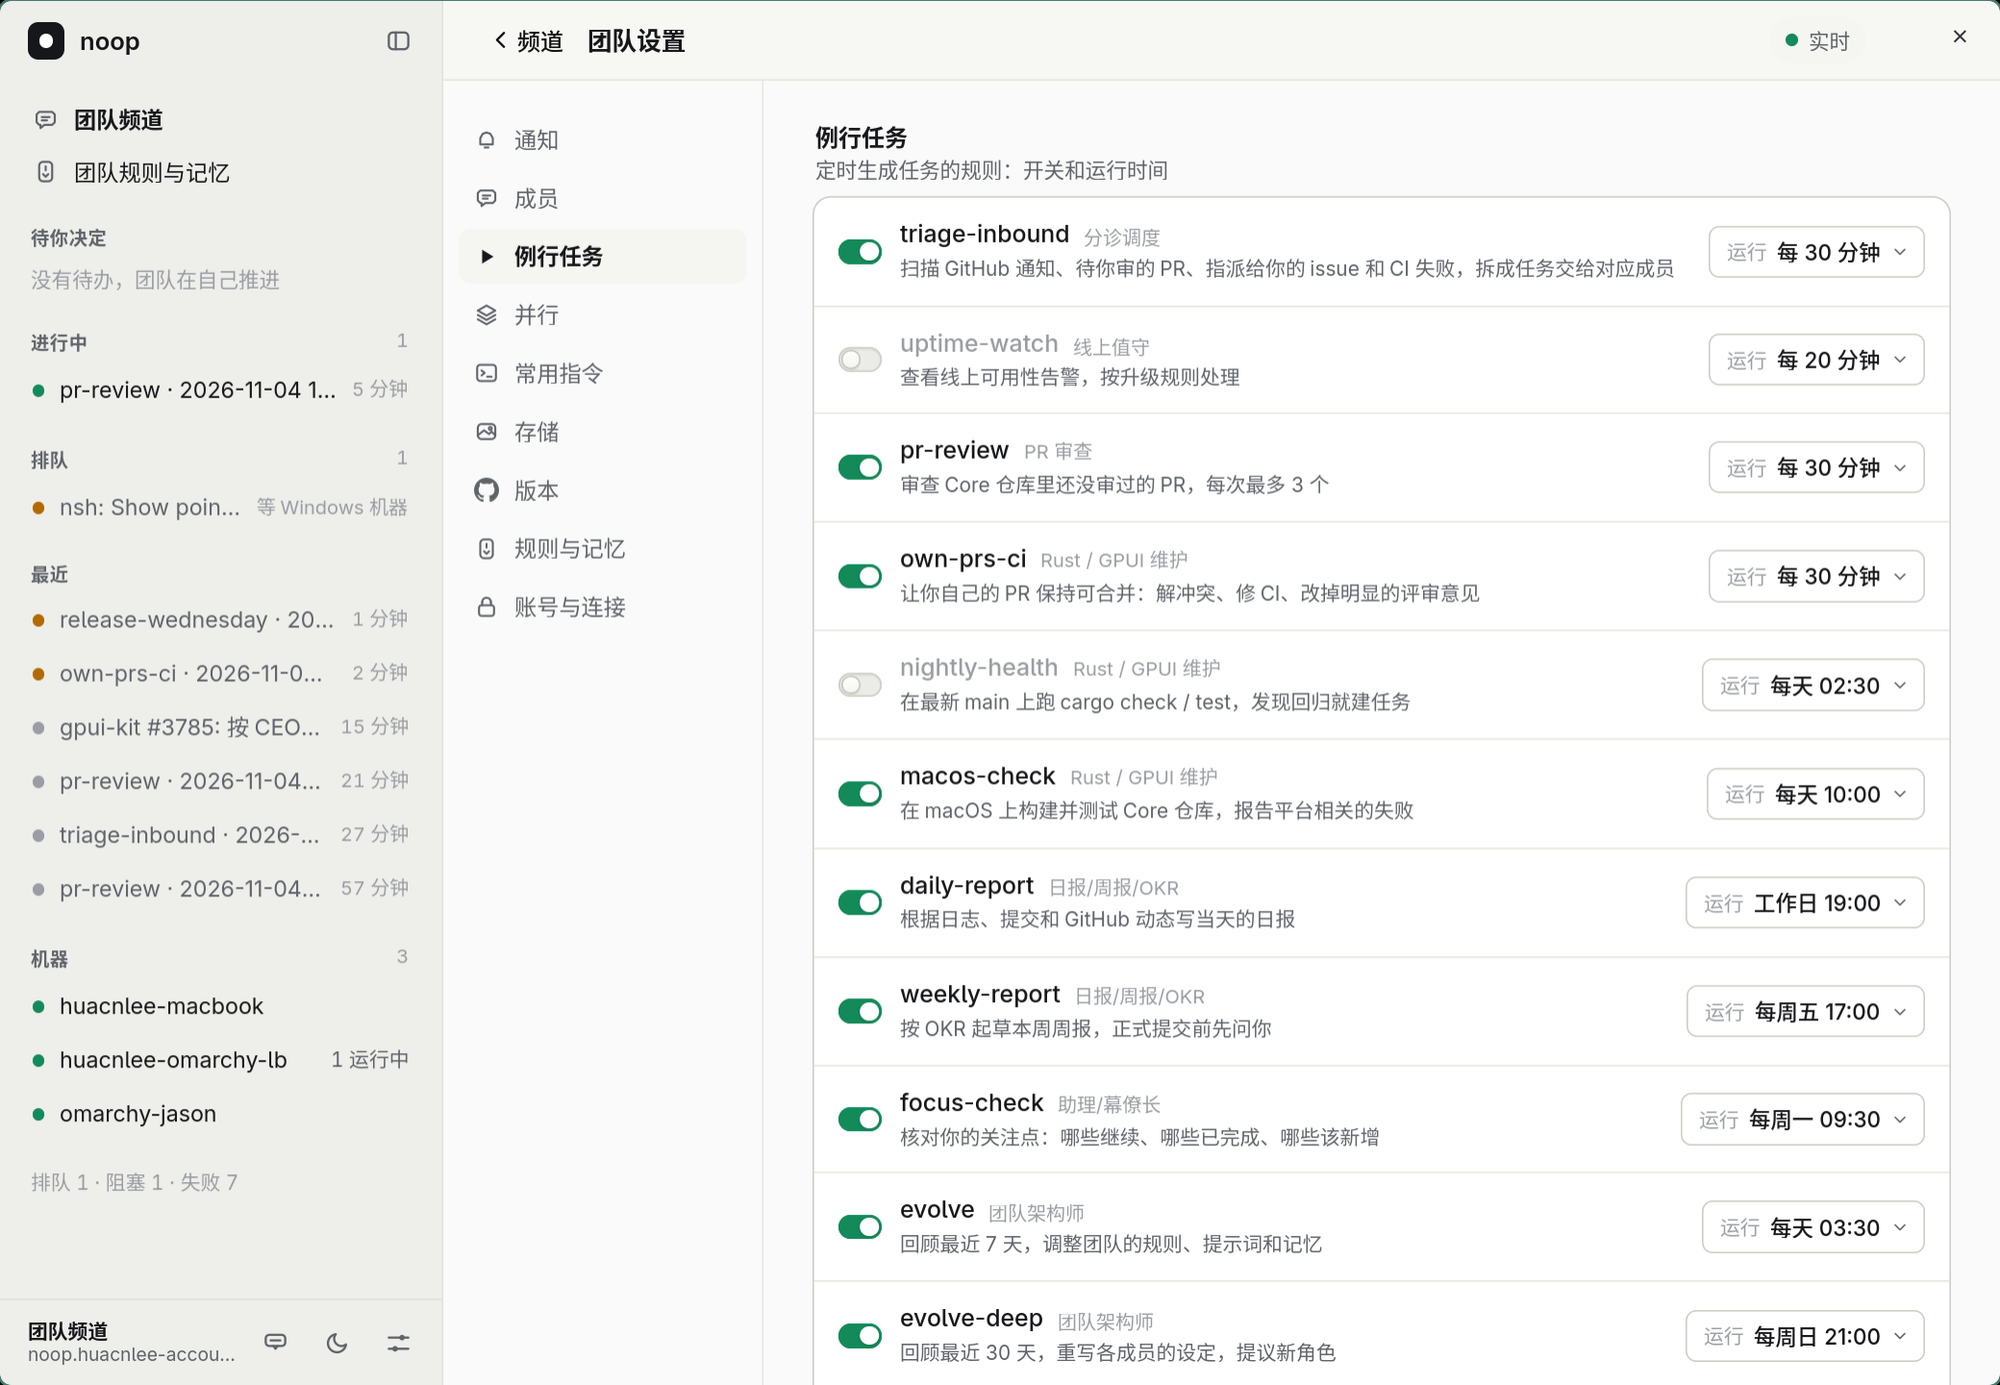
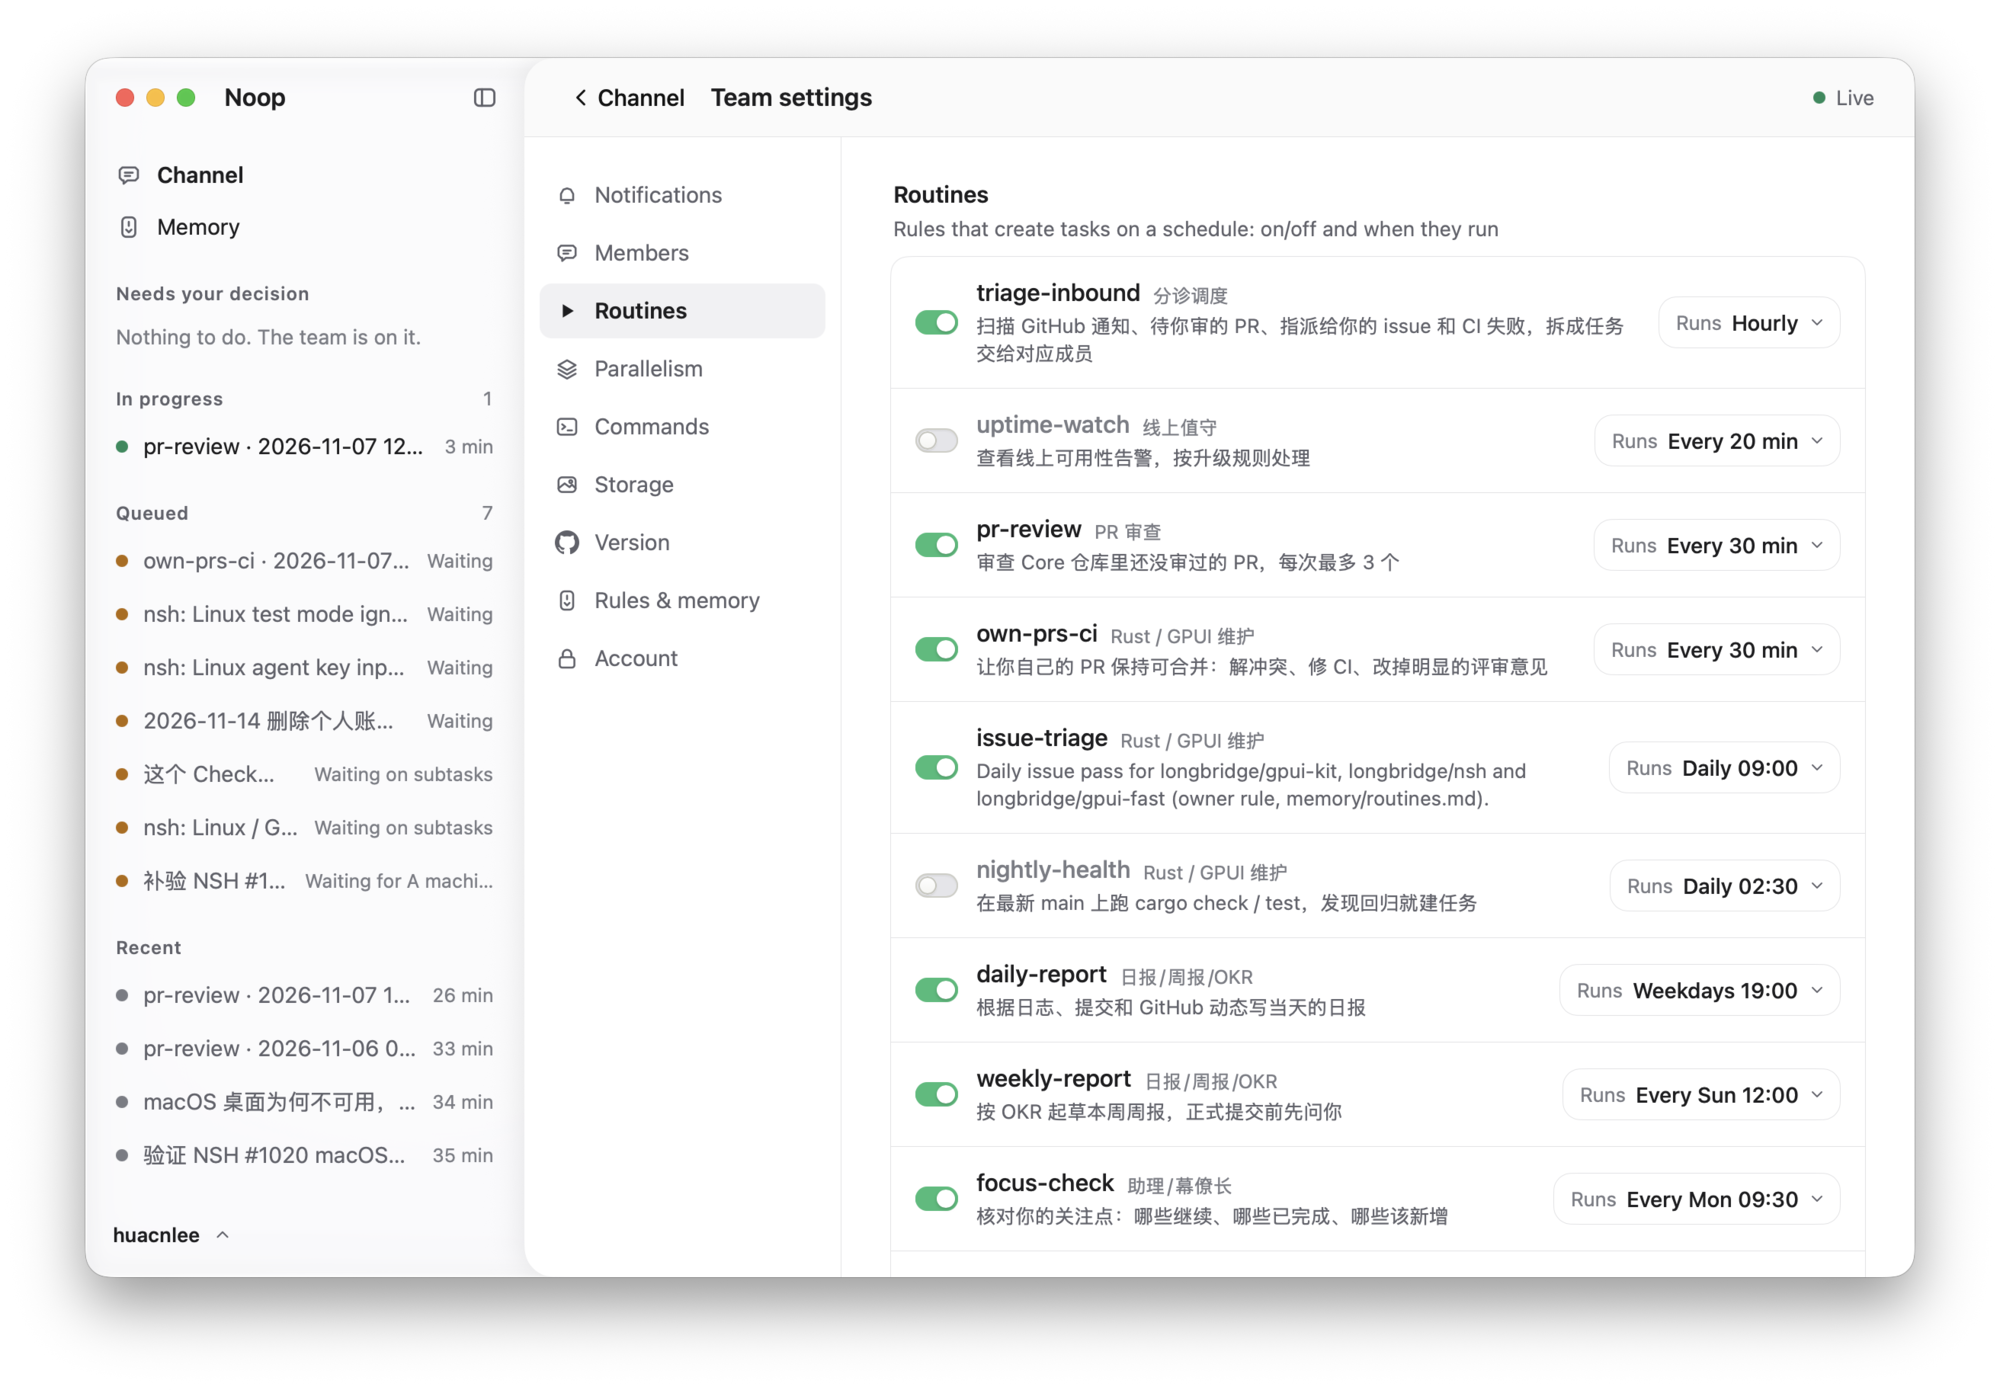
website: Show the current app in the screenshots, on a white light theme
Six new screenshots: the channel, a task, members, memory, routines and versions.
They stay truecolor so the window shadow has no banding, and a last gallery row
of two sits in the middle. The light theme drops its warm tint for white.

diff --git a/website/src/lib/copy.ts b/website/src/lib/copy.ts
@@ -12,11 +12,13 @@ export const copy = {
       body: 'Tests pass and the notes are written. One small fix is still in review.',
       options: [['A', 'Publish now, ship the fix next time', 'Recommended'], ['B', 'Wait for the fix, then publish', ''], ['C', 'Hold the release', '']],
     },
-    screenshot: 'The Noop app: a team channel with agent updates and a decision card offering options, beside lists of running tasks and machines',
+    screenshot: 'The Noop app: the team channel with agent updates and an instruction from the owner, beside lists of tasks in progress, queued and recent',
     gallery: [
-      ['screenshot-machine.png', 'Every machine at a glance', 'Load, memory, disk, signed-in tools, and what it is working on.'],
+      ['screenshot-task.png', 'Every task, start to finish', 'The request, who took it on which machine, and each result as it comes in. Add to it, or mark it done.'],
+      ['screenshot-members.png', 'A team with roles', 'Each member has a job. Choose the model it runs on and how much it decides without asking you.'],
+      ['screenshot-memory.png', 'Rules and memory', 'The rules the team works by and what it has learned about you, kept up to date as it works.'],
       ['screenshot-routines.png', 'Routines on your schedule', 'Turn recurring work on or off and choose when it runs.'],
-      ['screenshot-versions.png', 'Update from one place', 'See the version on each machine and update them all together.'],
+      ['screenshot-versions.png', 'Update from one place', 'See the version on each machine and this app, and update them all together.'],
     ],
     terminal: 'Install', tabs: 'What to install', readScript: 'Read the installer', guide: 'Read the README',
     copy: 'Copy', copied: 'Copied', copyFailed: 'Select and copy the command below.',
@@ -66,11 +68,13 @@ export const copy = {
       body: '测试已通过，发布说明也已写好。还有一个小修复在评审中。',
       options: [['A', '现在发布，修复留到下一次', '推荐'], ['B', '等修复合并后再发布', ''], ['C', '暂不发布', '']],
     },
-    screenshot: 'Noop 应用：团队频道中显示智能体更新和带选项的决策卡片，旁边是运行中的任务和机器列表',
+    screenshot: 'Noop 应用：团队主会话中显示智能体的更新和主人的指令，旁边是进行中、排队和最近的任务列表',
     gallery: [
-      ['screenshot-machine.png', '每台机器一目了然', '负载、内存、磁盘、已登录的工具，以及正在做的工作。'],
+      ['screenshot-task.png', '每个任务从头到尾', '需求、谁在哪台机器上接手，以及陆续回来的每条结果。可以补充要求，也可以标记完成。'],
+      ['screenshot-members.png', '分工明确的团队', '每个成员各有职责。可以选择它用哪个模型，以及多大的事先问你。'],
+      ['screenshot-memory.png', '规则与记忆', '团队遵守的规则，以及它记下的你的偏好，在工作中持续更新。'],
       ['screenshot-routines.png', '例行任务按你的时间运行', '开关周期性工作，并选择运行时间。'],
-      ['screenshot-versions.png', '在一处完成更新', '查看每台机器的版本，并一起更新。'],
+      ['screenshot-versions.png', '在一处完成更新', '查看每台机器和本机客户端的版本，并一起更新。'],
     ],
     terminal: '安装', tabs: '安装内容', readScript: '查看安装脚本', guide: '阅读 README',
     copy: '复制', copied: '已复制', copyFailed: '请选择并复制下方命令。',

diff --git a/website/src/styles/global.css b/website/src/styles/global.css
@@ -8,8 +8,8 @@
 }
 [data-theme='light'] {
   color-scheme: light;
-  --bg: #fbf7f0; --deep: #f3ede3; --surface: #e9e2d6; --text: #16150f; --secondary: #55524a; --muted: #66625a;
-  --border: #c0b9ab; --subtle: #e2dbcf; --brand: #0a7f68; --brand-ink: #fbf7f0; --selection: #bfe8dd;
+  --bg: #ffffff; --deep: #f5f5f7; --surface: #ececef; --text: #16161a; --secondary: #52525b; --muted: #63636b;
+  --border: #c6c6cc; --subtle: #e4e4e7; --brand: #0a7f68; --brand-ink: #ffffff; --selection: #bfe8dd;
 }
 
 * { box-sizing: border-box; }
@@ -104,8 +104,10 @@ pre { flex: 1; min-width: 0; white-space: pre-wrap; overflow-wrap: anywhere; pad
 .app-screenshot img { display: block; width: 100%; height: auto; border: 1px solid var(--subtle); }
 
 .app-screenshot { padding-bottom: 24px; }
-.gallery { display: grid; grid-template-columns: repeat(3, 1fr); gap: 24px; padding-bottom: 56px; }
-.gallery figure { margin: 0; min-width: 0; }
+.gallery { display: grid; grid-template-columns: repeat(6, 1fr); gap: 24px; padding-bottom: 56px; }
+.gallery figure { grid-column: span 2; margin: 0; min-width: 0; }
+/* A last row of two sits in the middle. */
+.gallery figure:nth-child(3n + 1):nth-last-child(2) { grid-column: 2 / span 2; }
 .gallery a { display: block; }
 .gallery img { display: block; width: 100%; height: auto; border: 1px solid var(--subtle); }
 .gallery a:hover img { border-color: var(--brand); }
@@ -172,6 +174,7 @@ footer .text-link { font-size: inherit; }
   .section-heading p { max-width: 100%; margin-bottom: 0; }
   dl { gap: 28px 24px; }
   .gallery { grid-template-columns: 1fr; padding-bottom: 32px; }
+  .gallery figure, .gallery figure:nth-child(3n + 1):nth-last-child(2) { grid-column: auto; }
   .related-heading { display: block; }
   .related-heading p { margin-top: 12px; }
   .related-projects ul { grid-template-columns: 1fr; }

diff --git a/website/tests/website.spec.ts b/website/tests/website.spec.ts
@@ -39,18 +39,18 @@ test('screenshot loads at its declared size', async ({ page }) => {
   await page.goto('./');
   const image = page.locator('.app-screenshot img');
   await image.scrollIntoViewIfNeeded();
-  await expect.poll(() => image.evaluate((element: HTMLImageElement) => [element.naturalWidth, element.naturalHeight])).toEqual([2000, 1385]);
+  await expect.poll(() => image.evaluate((element: HTMLImageElement) => [element.naturalWidth, element.naturalHeight])).toEqual([2000, 1390]);
 });
 
 test('gallery images load and link to full size', async ({ page }) => {
   await page.goto('./');
   const images = page.locator('.gallery img');
-  await expect(images).toHaveCount(3);
+  await expect(images).toHaveCount(5);
   for (const image of await images.all()) {
     await image.scrollIntoViewIfNeeded();
     await expect.poll(() => image.evaluate((element: HTMLImageElement) => element.naturalWidth)).toBe(2000);
   }
-  await expect(page.locator('.gallery a').first()).toHaveAttribute('href', '/noop/screenshot-machine.png');
+  await expect(page.locator('.gallery a').first()).toHaveAttribute('href', '/noop/screenshot-task.png');
 });
 
 test('related projects link to the other projects in both languages', async ({ page }) => {

diff --git a/README.md b/README.md
@@ -4,7 +4,7 @@ Your own AI team, so your day can be a no-op.
 
 [Website](https://huacnlee.github.io/noop/) · [Download the app](https://github.com/huacnlee/noop/releases) · [Install](#install)
 
-<img width="2000" height="1385" alt="The Noop app: a team channel with agent updates and a decision card" src="website/public/screenshot.png" />
+<img width="2000" height="1390" alt="The Noop app: the team channel with agent updates, beside lists of tasks" src="website/public/screenshot.png" />
 
 Noop runs a small team of Claude Code and Codex agents on your own computers. They do your daily work, decide what they can based on how you've decided before, and only ask you when something really needs you — with a short list of options you answer in one tap.
 
